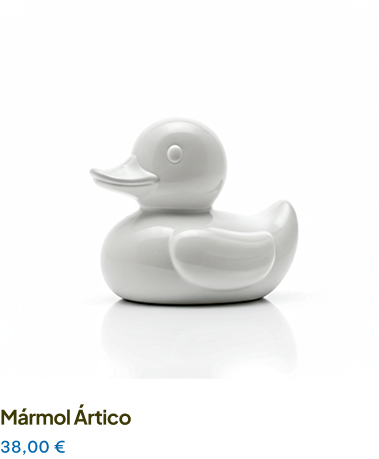
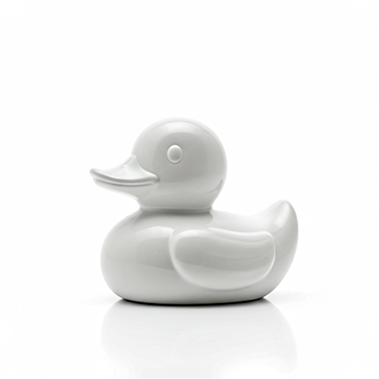
style(DUC-76): add catalogo sections style and responsive mode

Changed region(s): [[0.2322, 0.2612, 0.7836, 0.8417], [0.0, 0.8707, 0.3483, 0.9288], [0.0, 0.9578, 0.1741, 0.9868]]

diff --git a/pages/catalogo.html b/pages/catalogo.html
@@ -20,59 +20,81 @@
             <li class="navigation-bar__link"><a href="/pages/contacto.html" class="internal-link">Contacto</a></li>
         </ul>
     </header>
-    <main class="catalogo__content">
+    <main>
         <section class="catalogo-content__text-section">
-            <h1 class="catologo-texts__title">La colección de precisión</h1>
+            <h1 class="catologo-texts__title">La Colección de Precisión</h1>
             <p class="catalogo-texts__description">Una colección ténica donde la forma encuentra su función más lúdica.
                 Cada pieza de nuestra colección ha sido seleccionada por su integridad geométrica y su capacidad de
                 transformar lo cotidicano en un objeto de estudio estético.</p>
         </section>
-        <section class="catalogo-content catalogo-content__recomendaciones">
-            <h2>Nuestros productos recomendados:</h2>
+        <section class="catalogo-content" id="recomendations">
+            <h2 class="section-title">RECOMENDADOS</h2>
             <ul class="catalogo__products catalogo__products--highlighted">
                 <li class="catalogo-products__item">
                     <a class="catalogo-item__enlace-detalle" href="/pages/detalles-producto.html">
                         <img src="/assets/img-patito-1.png" alt="patito amarillo" class="foto-producto">
+                        <p class="item-name">Patito Amarillo</p>
                     </a>
-                    <a class="catalogo-item__enlace-detalle" href="/pages/detalles-producto.html">
-                        <p>Prototipo Amarillo 01</p>
-                    </a>
+                    <p class="item-price">24,00€</p>
                 </li>
-                <li class="catalogo-products__item"><img src="/assets/img-patito-4.png" alt="patito monocrome gris"
-                        class="foto-producto"></li>
-                <li class="catalogo-products__item"><img src="/assets/img-patito-6.png" alt="patito mármol ártico"
-                        class="foto-producto"></li>
-
-            </ul>
-        </section>
-        <section class="catalogo-content">
-            <ul class="catalogo__products">
                 <li class="catalogo-products__item">
-                    <a class="catalogo-item__enlace-detalle" href="/pages/detalles-producto.html">
-                        <img src="/assets/img-patito-1.png" alt="patito amarillo" class="foto-producto">
-                    </a>
-                    <a class="catalogo-item__enlace-detalle" href="/pages/detalles-producto.html">
-                        <p>Prototipo Amarillo 01</p>
-                    </a>
+                    <img src="/assets/img-patito-4.png" alt="patito monocrome gris" class="foto-producto">
+                    <p class="item-name">Monocrome Gris</p>
+                    <p class="item-price">35,00€</p>
                 </li>
-                <li class="catalogo-products__item"><img src="/assets/img-patito-2.png" alt="patito edición sombras"
-                        class="foto-producto"></li>
-                <li class="catalogo-products__item"><img src="/assets/img-patito-3.png" alt="patito variante cian"
-                        class="foto-producto"></li>
-                <li class="catalogo-products__item"><img src="/assets/img-patito-4.png" alt="patito monocrome gris"
-                        class="foto-producto"></li>
-                <li class="catalogo-products__item"><img src="/assets/img-patito-5.png" alt="patito espectro magenta"
-                        class="foto-producto"></li>
-                <li class="catalogo-products__item"><img src="/assets/img-patito-6.png" alt="patito mármol ártico"
-                        class="foto-producto"></li>
+                <li class="catalogo-products__item">
+                    <img src="/assets/img-patito-6.png" alt="patito mármol ártico" class="foto-producto">
+                    <p class="item-name">Mármol Ártico</p>
+                    <p class="item-price">38,00€</p>
+                </li>
             </ul>
         </section>
     </main>
+    <section class="catalogo-content">
+        <ul class="catalogo__products">
+            <li class="catalogo-products__item">
+                <a class="catalogo-item__enlace-detalle" href="/pages/detalles-producto.html">
+                    <img src="/assets/img-patito-1.png" alt="patito amarillo" class="foto-producto">
+                    <p>Patito Amarillo</p>
+                </a>
+                <p class="item-price">24,00€</p>
+            </li>
+            <li class="catalogo-products__item">
+                <img src="/assets/img-patito-2.png" alt="patito edición sombras" class="foto-producto">
+                <p class="item-name">Edición Sombras</p>
+                <p class="item-price">38,00€</p>
+            </li>
+            <li class="catalogo-products__item">
+                <img src="/assets/img-patito-3.png" alt="patito variante cian" class="foto-producto">
+                <p class="item-name">Patito Variante Cian</p>
+                <p class="item-price">28,00€</p>
+            </li>
+            <li class="catalogo-products__item">
+                <img src="/assets/img-patito-4.png" alt="patito monocrome gris" class="foto-producto">
+                <p class="item-name">Monocrome Gris</p>
+                <p class="item-price">35,00€</p>
+            </li>
+            <li class="catalogo-products__item">
+                <img src="/assets/img-patito-5.png" alt="patito espectro magenta" class="foto-producto">
+                <p class="item-name">Espectro Magenta</p>
+                <p class="item-price">42,00€</p>
+            </li>
+            <li class="catalogo-products__item">
+                <img src="/assets/img-patito-6.png" alt="patito mármol ártico" class="foto-producto">
+                <p class="item-name">Mármol Ártico</p>
+                <p class="item-price">3,00€</p>
+            </li>
+        </ul>
+    </section>
+    </main>
     <footer>
         <div class="footer__links">
-            <a href="#" class="footer__icon-link"><img src="/assets/icons/icons-facebook-50.png" alt="icono de facebook cuadrado" class="socialnet-icon"></a>
-            <a href="#" class="footer__icon-link"><img src="/assets/icons/icons-instagram-50.png" alt="icono de instagram cuadrado" class="socialnet-icon"></a>
-            <a href="#" class="footer__icon-link"><img src="/assets/icons/icons-linkedin-50.png" alt="icono de linkedin cuadrado" class="socialnet-icon"></a>
+            <a href="#" class="footer__icon-link"><img src="/assets/icons/icons-facebook-50.png"
+                    alt="icono de facebook cuadrado" class="socialnet-icon"></a>
+            <a href="#" class="footer__icon-link"><img src="/assets/icons/icons-instagram-50.png"
+                    alt="icono de instagram cuadrado" class="socialnet-icon"></a>
+            <a href="#" class="footer__icon-link"><img src="/assets/icons/icons-linkedin-50.png"
+                    alt="icono de linkedin cuadrado" class="socialnet-icon"></a>
         </div>
         <p class="footer__copyright">@2024 DUCKSTORE. SOPHISTICATED PLAY.</p>
     </footer>

diff --git a/css/catalogo.css b/css/catalogo.css
@@ -1,21 +1,136 @@
-
-header,
-main,
-footer,
-section {
-    width: 100%;
-}
-
 body {
     width: 100%;
     min-height: 100vh;
 }
 
-
-
-.foto-producto {
-    width: 5rem;
-    height: auto;
+main {
+    width: 100%;
+    display: flex;
+    flex-direction: column;
+    align-items: center;
+    gap: 1rem;
 }
 
+.catalogo-content__text-section {
+    width: 100%;
+    display: flex;
+    flex-direction: column;
+    justify-content: space-around;
+    align-items: center;
+    text-align: center;
+    gap: 1rem;
+    margin-bottom: 1rem;
+    ;
+}
 
+.catalogo-content {
+    width: 100vw;
+    display: flex;
+    flex-direction: column;
+    align-items: center;
+    padding: 1rem;
+}
+
+.catalogo__products {
+    position: relative;
+    display: grid;
+    grid-template-columns: repeat(3, 1fr);
+    justify-content: center;
+    gap: 1rem;
+    padding: 1rem;
+}
+
+.catalogo__products--highlighted {
+    border-radius: 3rem;
+    background-color: rgb(248, 201, 99);
+}
+
+#recomendations {
+    border-radius: 3rem;
+    background-color: rgb(248, 201, 99);
+    transform: scale(0.6);
+    transform-origin: center;
+    margin-top: -10%;
+    margin-bottom: -10%;
+}
+
+@media (min-width: 768px) {
+    #recomendations {
+        margin-top: -8%;
+        margin-bottom: -8%;
+    }
+}
+
+@media (min-width: 1023px) {
+    #recomendations {
+        margin-top: -5%;
+        margin-bottom: -5%;
+    }
+}
+
+@media (max-width: 530px) {
+    .catalogo__products,
+    .catalogo__products--highlighted {
+        display: flex;
+        flex-direction: column;
+        justify-content: center;
+        width: fit-content
+    }
+
+    #recomendations {
+        margin-top: -30%;
+        margin-bottom: -30%;
+        width: fit-content
+    }
+}
+
+.catalogo-products__item {
+    justify-self: center;
+}
+
+.foto-producto {
+    width: 10rem;
+    height: auto;
+    border-radius: 3rem;
+}
+
+/* FONTS */
+.catologo-texts__title,
+.item-name, .catalogo-item__enlace-detalle:active, 
+.catalogo-item__enlace-detalle:visited {
+    font-family: "Plus Jakarta Sans", sans-serif;
+    font-optical-sizing: auto;
+    font-weight: 800;
+    font-style: normal;
+    color: #3D3905;
+}
+
+.catalogo-texts__description {
+    width: 80vw;
+    font-family: "Plus Jakarta Sans", sans-serif;
+    font-optical-sizing: auto;
+    font-weight: 500;
+    font-style: normal;
+    font-size: larger;
+    color: #6b662f;
+}
+
+.section-title {
+    font-family: "Plus Jakarta Sans", sans-serif;
+    font-optical-sizing: auto;
+    font-weight: 800;
+    font-style: normal;
+    color: #3D3905;
+}
+
+.item-name {
+    text-align: left;
+}
+
+.item-price {
+    font-family: "Be Vietnam Pro", sans-serif;
+    font-optical-sizing: auto;
+    font-weight: 500;
+    font-style: normal;
+    color: #0067AD;
+}
